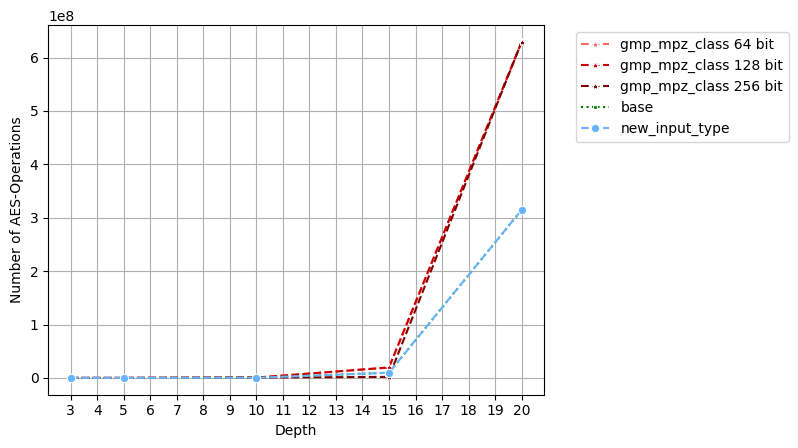
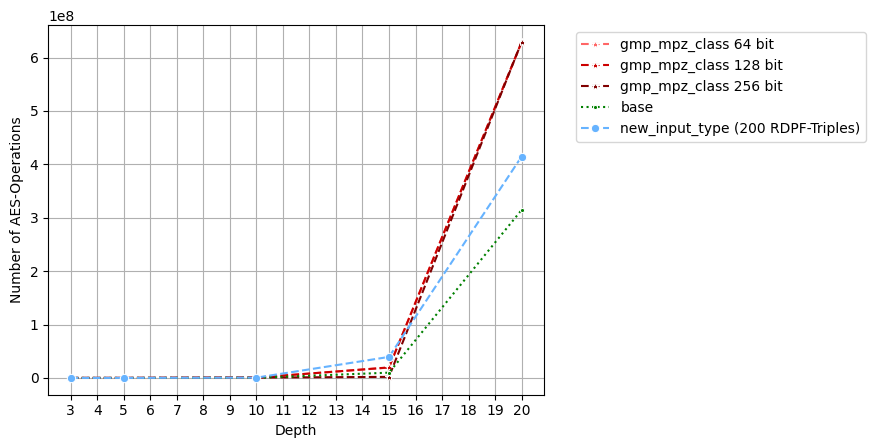
nit on 200 triples

Changed region(s): [[0.0, 0.0, 0.9925, 0.9688], [0.6617, 0.25, 0.9925, 0.3438]]

diff --git a/plots/code/preproc/aes_ops_preproc.py b/plots/code/preproc/aes_ops_preproc.py
@@ -35,8 +35,8 @@ df_mpz_256 = pd.DataFrame({
 
 df_nit = pd.DataFrame({
     "x": [x1,x2,x3,x4,x5],
-    "y": [2100,9300,306900,9830100,314572500],
-    "Approach": "new_input_type"
+    "y": [8100,12300,506900,39320400,414572500],
+    "Approach": "new_input_type (200 RDPF-Triples)"
 })
 
 sns.lineplot(data=df_mpz_64, x="x", y="y", hue="Approach", marker="*", linestyle="dashed", palette=["#ff6666"])

diff --git a/plots/code/preproc/wall_clock_time_preproc.py b/plots/code/preproc/wall_clock_time_preproc.py
@@ -12,8 +12,8 @@ x5 = 20
 
 df_new_input_type = pd.DataFrame({
     "x":[x1,x2,x3,x4, x5],
-    "y":[0.1,0.1,0.124,0.225,0.421],
-    "Approach": "new_input_type"
+    "y":[0.1,0.215,0.324,0.521,2.221],
+    "Approach": "new_input_type (200 RDPF-Triples)"
 })
 
 df_base = pd.DataFrame({
